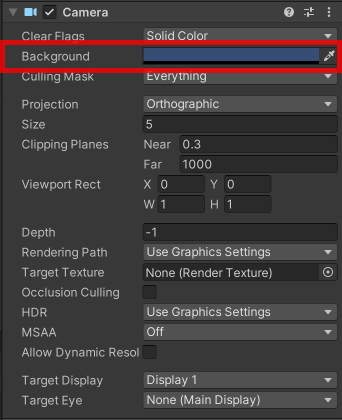
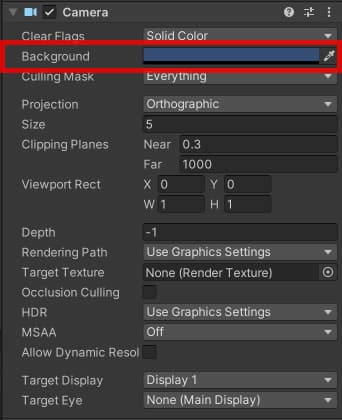
work at 4 less

diff --git a/src/unity/2.md b/src/unity/2.md
@@ -36,11 +36,11 @@ timeread: "5"
     </span>
 </div>
 
-![Открытый Unity Hub](/img/unity/less2/less2__01.png)
+![Открытый Unity Hub](/img/unity/less2/less2__01.jpg)
 
 Это интерфейс Unity Hub. Прежде чем начать устанавливать игровой движок Unity и создавать свой проект, нам нужно зарегистрироваться. Воспользуйтесь иконкой слева вверху. Используйте «Sign up» для регистрации на сайте.
 
-![Открытый Unity Hub](/img/unity/less2/less2__02.png)
+![Открытый Unity Hub](/img/unity/less2/less2__02.jpg)
 
 Введите почту, пароль и ваше имя. Для входа в аккаунт вам нужно будет использовать почту и пароль.
 
@@ -57,11 +57,11 @@ timeread: "5"
     </span>
 </div>
 
-![Открытый Unity Hub](/img/unity/less2/less2__03.png)
+![Открытый Unity Hub](/img/unity/less2/less2__03.jpg)
 
 После регистрации вам нужно нажать на аккаунт в Unity Hub, нажать на «Manage licenses». У вас появится окно для управления лицензией приложения. Чтобы использовать игровой движок нам нужно активировать бесплатную лицензию.
 
-![Открытый Unity Hub](/img/unity/less2/less2__04.png)
+![Открытый Unity Hub](/img/unity/less2/less2__04.jpg)
 
 Нажимаем кнопку «Add», появится список лицензий, нам нужно выбрать следующий вариант лицензии: «Get a free personal license». Принимаем правила Unity. После в списке лицензий у вас, как и у меня, появится «Personal» лицензия.
 
@@ -73,7 +73,7 @@ _К слову, вы можете обратить внимание, что мо
 
 Для установки Unity перейдем в пункт «Installs» в левом боковом меню. Здесь вам нужно нажать на «Install Editor» для установки игрового движка Unity.
 
-![Открытый Unity Hub](/img/unity/less2/less2__05.png)
+![Открытый Unity Hub](/img/unity/less2/less2__05.jpg)
 
 Здесь появится окно, в котором нам нужно выбрать версию игрового движка Unity. Лично я рекомендую версию 2021 года с надписью LTS слева.
 
@@ -83,7 +83,7 @@ _К слову, вы можете обратить внимание, что мо
 
 Нажимаем кнопку «Install» справа от выбранной версии. Следующее окно — выбор компонентов при установке. Обращаю внимание, что выбор компонентов при установке — важный процесс. Мы должны установить те компоненты, которые будем использовать при установке. Мы всегда сможем скачать их после установки, но рекомендую установить нужный пакет компонентов именно на данном шаге установки.
 
-![Открытый Unity Hub](/img/unity/less2/less2__06.png)
+![Открытый Unity Hub](/img/unity/less2/less2__06.jpg)
 
 Для правильной работы игрового движка Unity нам нужно установить следующий пакет компонентов:
 
@@ -97,7 +97,7 @@ _К слову, вы можете обратить внимание, что мо
 
 После выбора всех нужных компонентов размер Unity будет составлять 18.94 Гб на диске. Соглашаемся и нажимаем на «Continue».
 
-![Открытый Unity Hub](/img/unity/less2/less2__07.png)
+![Открытый Unity Hub](/img/unity/less2/less2__07.jpg)
 
 Завершающий шаг. Нам нужно согласиться с политикой конфиденциальности и нажать на «I have read and agree with the above terms and conditions». После нажимаем на «Continue». Соглашаемся с еще одной политикой конфиденциальности таким же образом. И вот она заветная кнопка — «Install». Нажимаем и начинаем установки игрового движка Unity.
 
@@ -105,7 +105,7 @@ _К слову, вы можете обратить внимание, что мо
 
 Сама установка может занимать много времени. Обычно игровой движок Unity с выбранными пакетами устанавливается за 20 минут. При установке у вас могут возникнуть проблемы.
 
-![Открытый Unity Hub](/img/unity/less2/less2__08.png)
+![Открытый Unity Hub](/img/unity/less2/less2__08.jpg)
 
 Слева внизу есть кнопка «Downloads». Если нажать на нее — появится окно, в котором отобразятся все актуальные установки. Сейчас я ничего не скачиваю, поэтому у меня пустой экран. В случае, если устанавливать игровой движок Unity — сверху отобразится установка игрового движка Unity и его компонентов.
 

diff --git a/src/unity/4.md b/src/unity/4.md
@@ -13,7 +13,7 @@ timeread: "time"
 
 > Компонент — термин.
 
-![Открытый Unity Hub](/img/unity/less4/less4__01.png)
+![Открытый Unity Hub](/img/unity/less4/less4__01.jpg)
 
 Поговорим подробнее про окно Инспектора («Inspector»). В самом вверху находится название объекта: «Main Camera», объекту мы можем дать любое название. Слева от названия есть белая галочка, она нужна для того, чтобы выключать объект. Это бывает необходимо, когда объект скрывается на время.
 
@@ -29,7 +29,7 @@ timeread: "time"
 
 Для того, чтобы изменить цвет — нужно нажать на синий цвет справа от поля «Background».
 
-![Открытый Unity Hub](/img/unity/less4/less4__03.png)
+![Открытый Unity Hub](/img/unity/less4/less4__03.jpg)
 
 Появится палитра выбора цвета. Поговорим подробнее про цвета. Для того, чтобы выбрать красный цвет, мы должны сделать следующее: переводим курсор на круг, в котором находится квадрат, нажимаем курсор на белый маленький кружок и переводим его в район красного цвета. Таким образом мы выбрали красный цвет.
 
@@ -87,11 +87,11 @@ HEX: как по мне, самый удобный вариант, цвет за
 
 Перейдем к сборке игры под Android. Перейдите в верхнюю часть экрана, найдите пункт «File», там будет пункт «Build Settings».
 
-![Открытый Unity Hub](/img/unity/less4/less4__04.png)
+![Открытый Unity Hub](/img/unity/less4/less4__04.jpg)
 
 У меня операционная система macOS, поэтому интерфейс может немного отличаться. На Windows или Linux данный пункт находится в том же месте.
 
-![Открытый Unity Hub](/img/unity/less4/less4__05.png)
+![Открытый Unity Hub](/img/unity/less4/less4__05.jpg)
 
 После нажатия у нас появится окно «Build Settings». Отсюда мы будем управлять сборкой игры. Давайте подробнее поговорим о том, что такое сборка игры.
 
@@ -105,7 +105,7 @@ HEX: как по мне, самый удобный вариант, цвет за
 
 Сейчас мы делаем сборку игры под Android, поэтому слева в пункте «Platform» нам нужно выбрать пункт «Android». После нажатия справа внизу у нас вместо кнопок «Build» и «Build And Run» появится кнопка «Switch Platform». Нам нужно нажать на нее, чтобы сменить платформу сборки. Этот процесс занимает некоторое время, обычно меньше 5 минут.
 
-![Открытый Unity Hub](/img/unity/less4/less4__06.png)
+![Открытый Unity Hub](/img/unity/less4/less4__06.jpg)
 
 Возможно после сборки в консоле появятся ошибки. Данные ошибки не повлияют на сборку проекта, мы можем проигнорировать их.
 

diff --git a/src/unity/3.md b/src/unity/3.md
@@ -15,7 +15,7 @@ timeread: "4"
 
 В верхнем правом углу нажимаем на кнопку «New project», чтобы создать новый проект. У нас появится следующий интерфейс.
 
-![Открытый Unity Hub](/img/unity/less3/less3__01.png)
+![Открытый Unity Hub](/img/unity/less3/less3__01.jpg)
 
 Здесь мы можем выбрать расположение, название проекта. И, пожалуй, самое интересное — к проекту мы можем применить шаблоны. Важно: шаблоны применяются на стадии создания проекта, если не применить их на данном шаге — вернуться назад не выйдет и потребуется создавать новый проект.
 
@@ -23,7 +23,7 @@ timeread: "4"
 
 По центру выбираем «2D Core». Справа даем название проекта под надписью «Project name», по умолчанию название проекта — «My project». Внизу, под надписью «Location» выбираем путь до папки, для этого нажимаем на иконку папки справа.
 
-![Открытый Unity Hub](/img/unity/less3/less3__02.png)
+![Открытый Unity Hub](/img/unity/less3/less3__02.jpg)
 
 Отлично! Мы создали свой первый проект. По умолчанию у вас отобразится следующий интерфейс. В настройках можно включить светлую тему, можете посмотреть в интернете инструкцию.
 
@@ -40,7 +40,7 @@ timeread: "4"
 
 Сразу стоит сказать — интерфейс мы можете подстраивать под свои задачи как угодно.
 
-![Открытый Unity Hub](/img/unity/less3/less3__04.png)
+![Открытый Unity Hub](/img/unity/less3/less3__04.jpg)
 
 Если вы посмотрите на верхнюю часть вкладки, вы можете увидеть несколько кнопок: «Scene» и «Game». Если нажать на кнопку «Game» — на месте вкладки «Scene» отобразится вкладка «Game».
 
